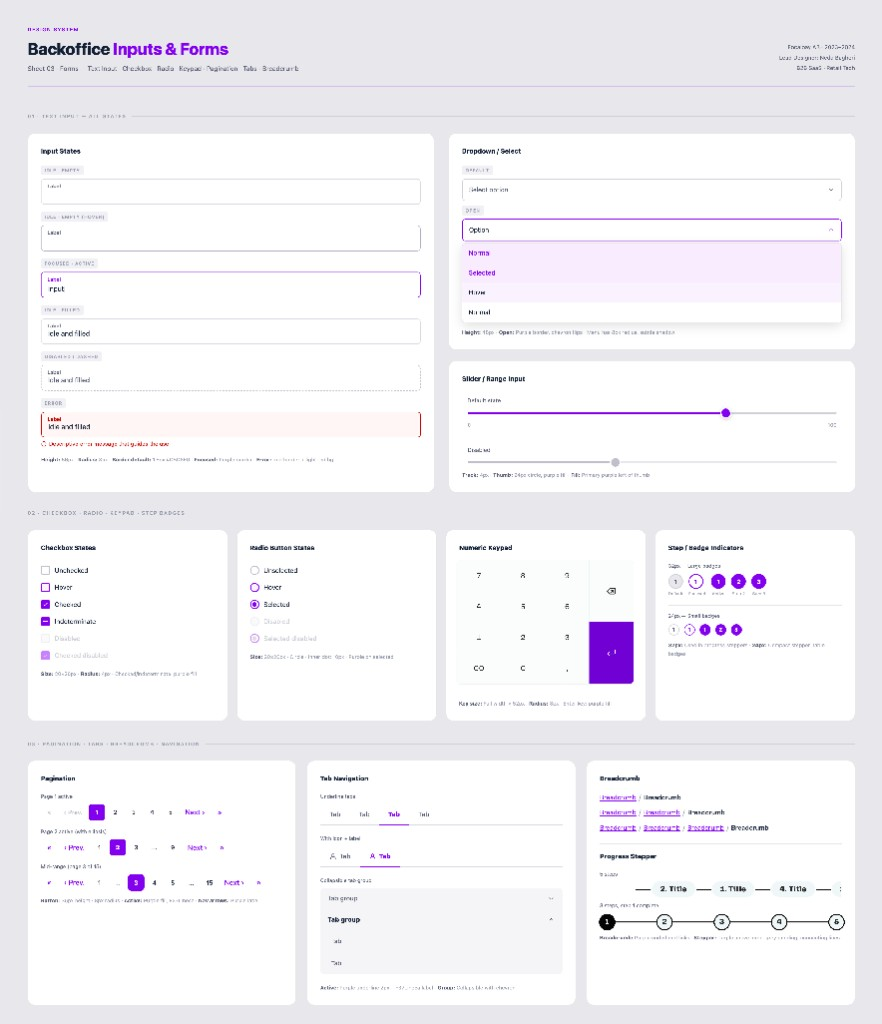
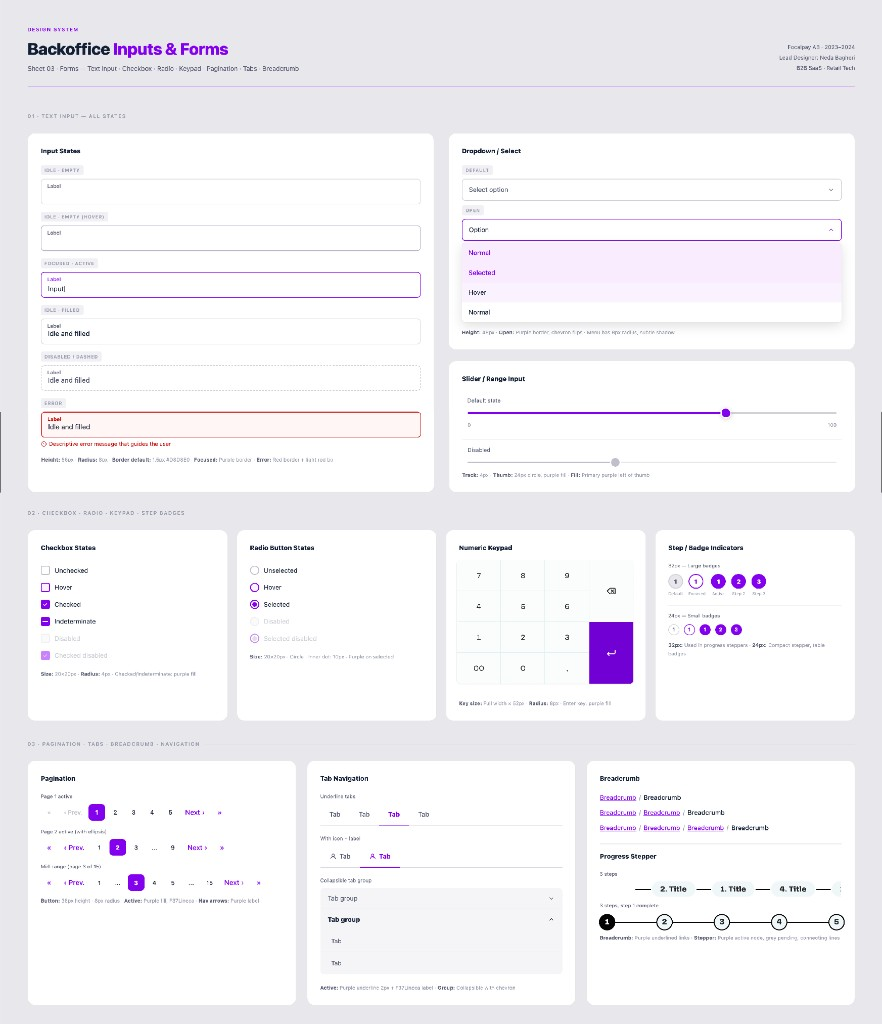
Design system: crisp sheet PNGs — width 100%, max-width 3350px cap, no upscale
Made-with: Cursor

diff --git a/backoffice.html b/backoffice.html
@@ -203,7 +203,7 @@
   .ds-sheet-figure.ds-cap-882{max-width:min(100%,882px);margin-left:auto;margin-right:auto;}
   .ds-sheet-figure .ds-img{
     width:100%;
-    max-width:100%;
+    max-width:min(100%,3350px);
     height:auto;
     display:block;
     border-radius:14px;
@@ -211,6 +211,8 @@
     background:var(--surface);
     box-shadow:0 12px 40px rgba(26,26,26,0.1);
     image-rendering:auto;
+    transform:none;
+    filter:none;
   }
   .ds-theme-row{display:grid;grid-template-columns:1fr 1fr;gap:20px;margin-top:8px;}
   .ds-theme-item{display:flex;flex-direction:column;gap:12px;margin:0;min-width:0;}
